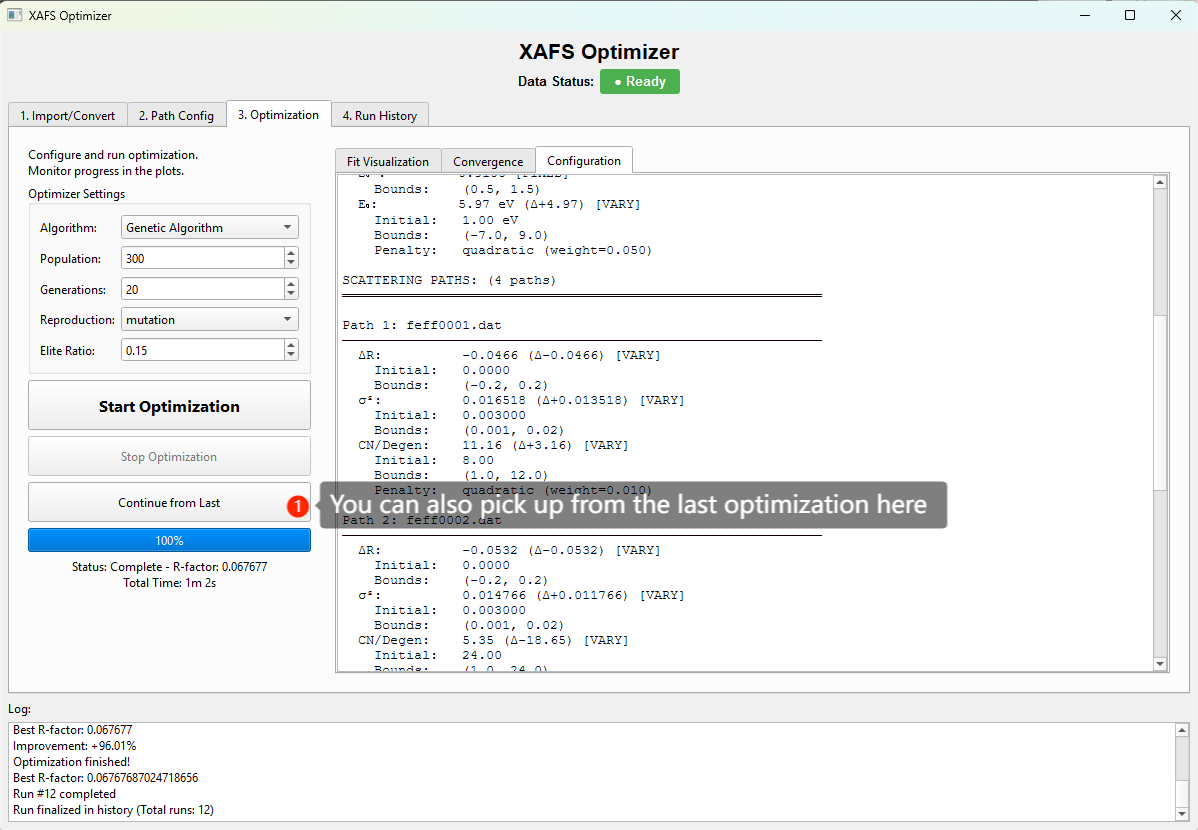
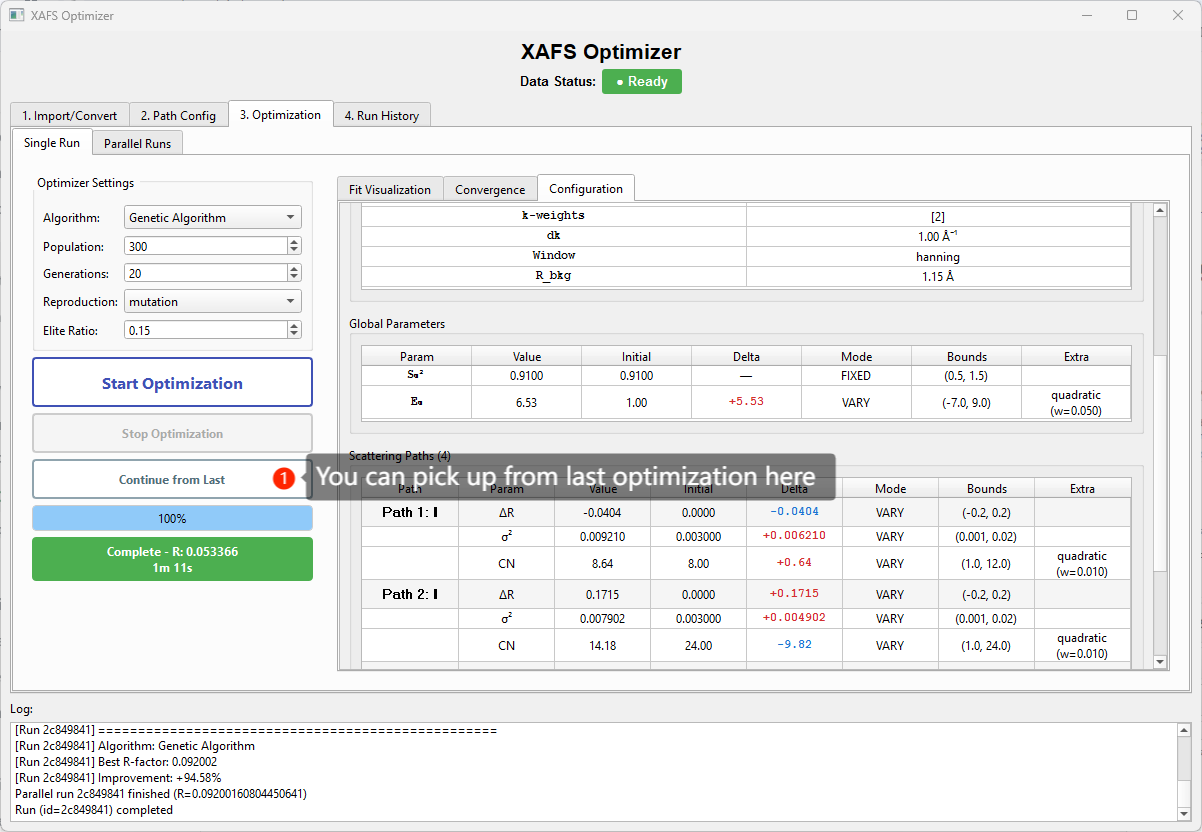
Updated documentation for parallel runs

diff --git a/docs/gui/tab-optimization.md b/docs/gui/tab-optimization.md
@@ -6,9 +6,11 @@ sidebar_position: 4
 
 # Tab 3 — Optimization
 
-The Optimization tab is where you run the fit and inspect results in real time.
+The Optimization tab is where you run the fit and inspect results in real time. It has two top-level sub-tabs: **Single Run** and **Parallel Runs**.
 
-## Controls
+## Single Run
+
+### Controls
 
 ![Tab 3 — Active optimization with live fit plots](/img/gui/tab_3_optimizing.png)
 
@@ -46,22 +48,66 @@ When you change the algorithm, the parameter panel below the dropdown updates to
 
 The progress bar shows completion percentage for population-based algorithms. For LM, it shows iteration count. The status label displays the current best R-factor.
 
-## Sub-tabs
+### Sub-tabs
 
-### Fit Visualization
+#### Fit Visualization
 
 ![Fit visualization — chi(k) and chi(R)](/img/gui/tab_3_optimizing.png)
 
 Both plots update live during optimization. The **Live Parameters** panel on the right shows the current best parameter values.
 
-### Convergence
+#### Convergence
 
 ![Convergence plot — R-factor vs generation](/img/gui/tab_3_convergence.png)
 
 Plots the best R-factor vs generation/iteration number. A well-behaved fit shows monotonically decreasing R-factor that plateaus at convergence.
 
-### Configuration
+#### Configuration
 
 ![Configuration after run](/img/gui/tab_3_configuration_after.png)
 
-A read-only summary of the current fitting configuration (ranges, paths, parameter modes) and results. 
+A read-only summary of the current fitting configuration (ranges, paths, parameter modes) and results.
+
+---
+
+## Parallel Runs
+
+Parallel Runs lets you run multiple optimizations simultaneously, each with its own algorithm and settings. This is useful for testing different optimizations side-by-side, for example, comparing GA with mutation vs. crossover reproduction, or trying different starting modes.
+
+### Setting Up Runs
+
+![Parallel Runs tab — queued runs ready to start](/img/gui/tab_3_parallel_runs.png)
+
+Click **+ Add Run** to add a run slot (up to 8 runs). Each run card has its own:
+
+- **Algorithm** dropdown — choose independently per run
+- **Mode** dropdown — **Start New** or **Continue from Last** (warm-start from the previous single-run result)
+- **Advanced** settings — algorithm-specific parameters (population size, generations, etc.)
+
+The counter in the toolbar (e.g. `2 / 8 runs`) shows how many runs are configured out of the maximum.
+
+### Running in Parallel
+
+![Two runs executing simultaneously](/img/gui/tab_3_parallel_runs_running.png)
+
+Click **Start All** to launch all configured runs at the same time. Each run card shows:
+
+- A **status badge** (Queued → Running → Complete)
+- A **progress bar** and elapsed time
+- The current best **R-factor** updating live
+
+Click **Stop All** to interrupt all running jobs, or **Stop** on an individual card to cancel just that run. Click **View** to open a live visualization window for any run.
+
+### Live View Window
+
+![Live view window for a single parallel run](/img/gui/tab_3_parallel_runs_view_window.png)
+
+The view window works identically to the Single Run sub-tabs — it shows the live k-space and R-space fit plots alongside the current parameter values and a Convergence tab. You can open view windows for multiple runs simultaneously to monitor them side-by-side.
+
+### Comparing and Applying Results
+
+![Completed runs with Results Comparison table](/img/gui/tab_3_parallel_run_completion.png)
+
+Once runs finish, a **Results Comparison** table appears below the run cards, listing R-factor and all fitted parameter values for each completed run. The best R-factor is highlighted in green.
+
+Use the **Use Results** button on a run card (or the **Use Run X (R=...)** button in the comparison table) to apply that run's best parameters as the active result, making them available to Single Run, Continue from Last, and the Run History tab.
